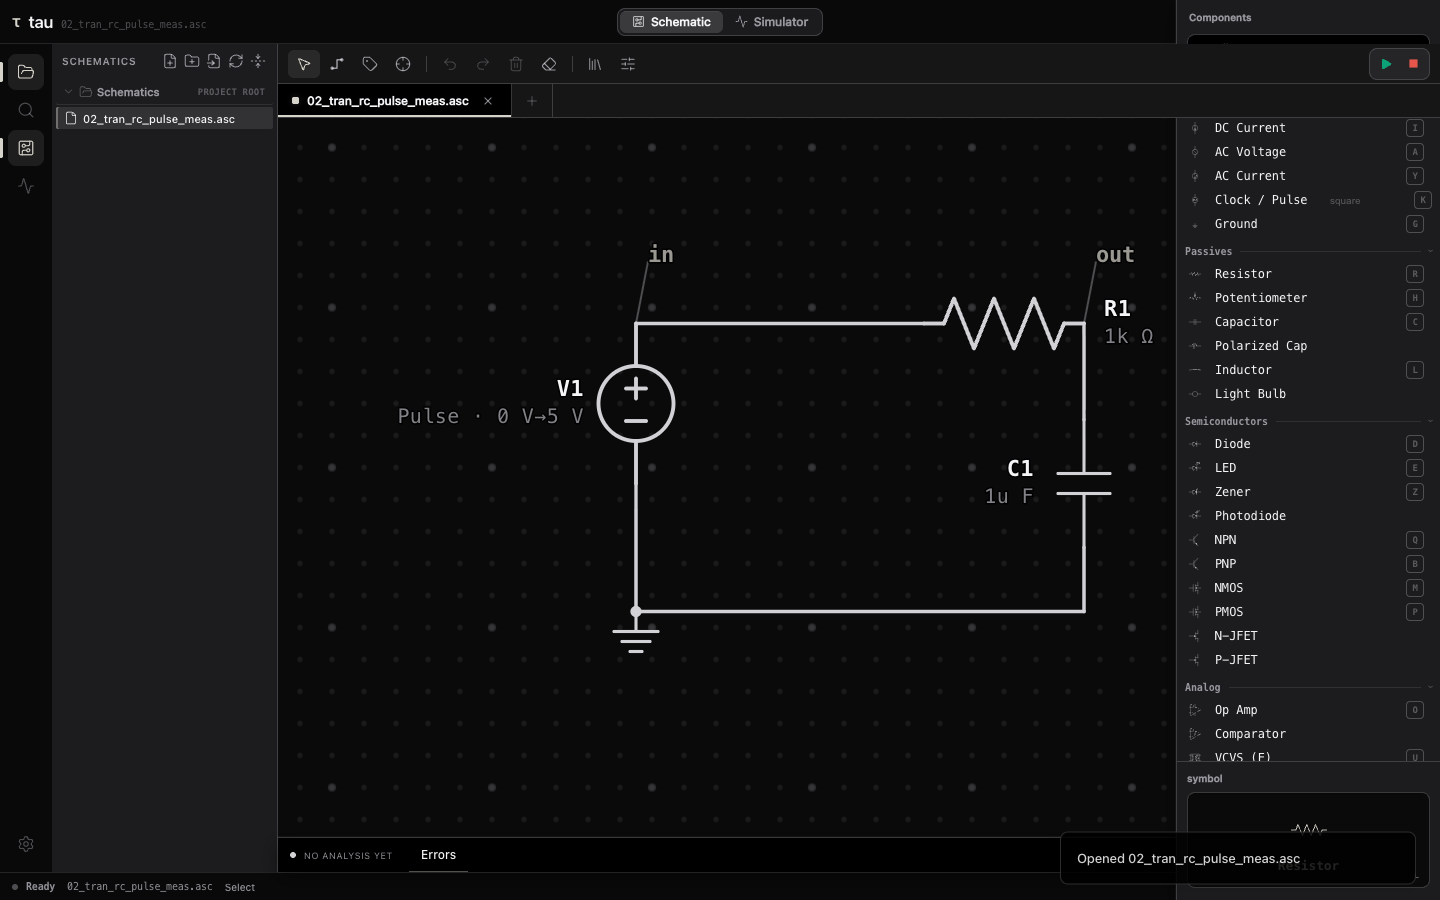
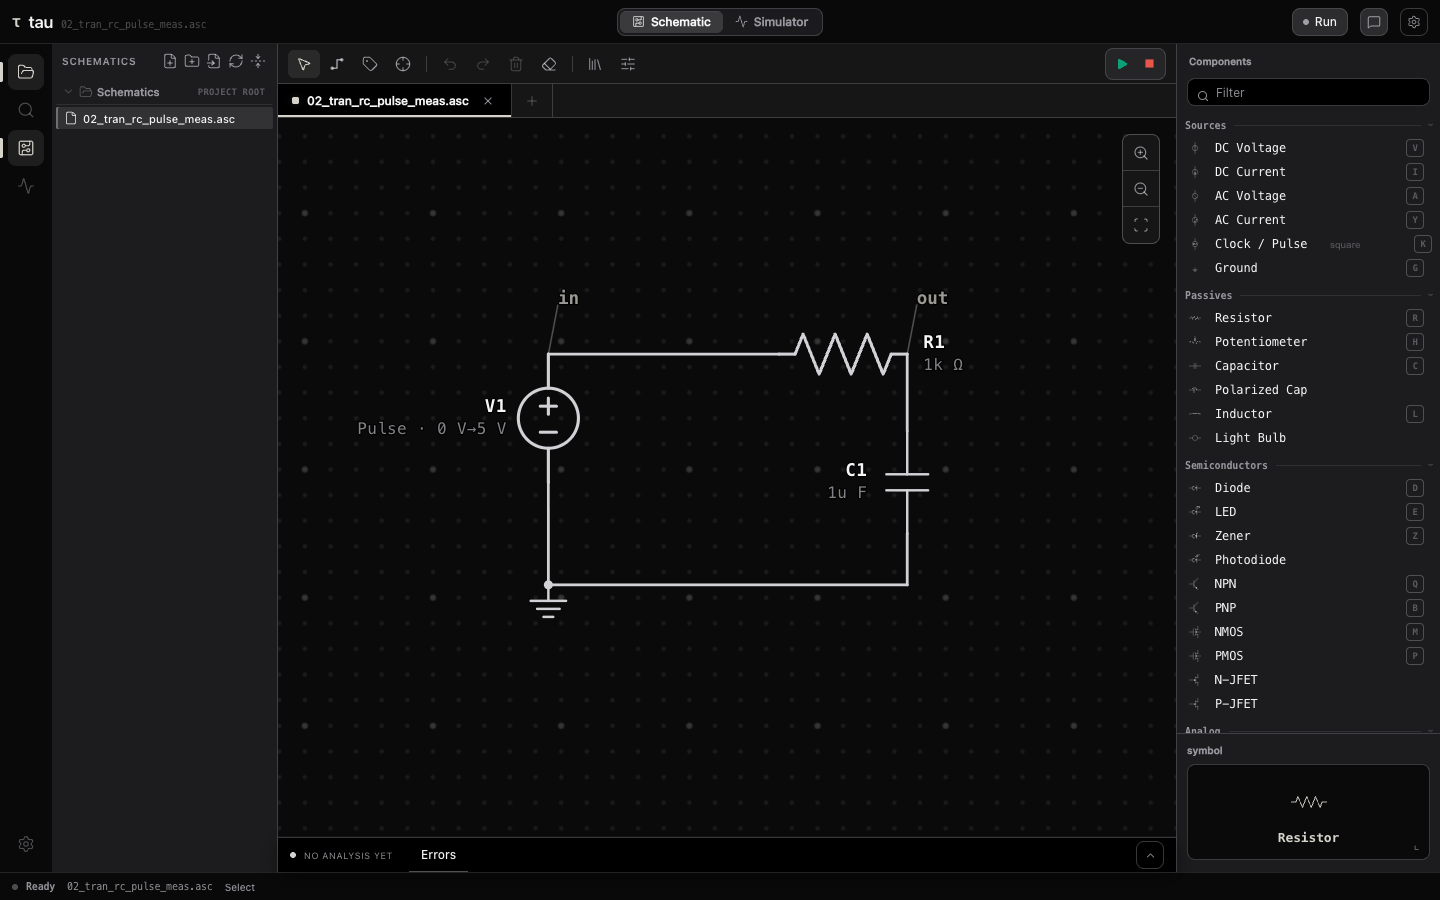
Stop the toast covering the instrument, and say where stage 5 stopped
Two things, both about the bottom-right corner of the window.

**The notices.** Every screenshot in this redesign has had "Opened
02_tran_rc_pulse_meas.asc" sitting over the trace legend, and it is worth
naming why that is two faults rather than one.

It should not have been said at all: opening a file already changes the tab
strip, the title bar and the drawing, so a toast restating it is ink carrying
no information - the antipattern the design language exists to prevent. A
notice with something to add (parts dropped on import, terminals left
stranded) still speaks, because that genuinely is not visible anywhere else.

And it should not have been said there. The bottom-right is where Tau puts the
things you read a number off: the trace legend, the measurement cards, the
drawer's controls. A notice landing on those is covering the subject in order
to talk about it. Toasts move to bottom-centre, clear of the status readout,
over the schematic's empty middle ground.

**Stage 5, and where it stops.** The parts library staying a docked column is
the one place the canvas-first rule is knowingly unfinished, so it is written
down rather than left to look like an oversight.

Floating it is right - opening the library should not take 264px off the
drawing - but it cannot just be absolutely positioned in the shell body. The
editor's toolbar and tab strip live inside a sibling element, so a full-height
overlay lands on top of Run. Raising the toolbar above it did not settle the
[…]

diff --git a/apps/desktop/src/App.css b/apps/desktop/src/App.css
@@ -5494,30 +5494,26 @@ body {
    to 208px, which drops the container query's threshold and the row sheds
    its description column rather than clipping the name (verified via
    design-shot at 900×600). */
-/* Summoned, not docked.
-   The parts library used to be a flex column, so opening it took 264px off
-   the drawing - the canvas-first rule says collapse the apparatus before
-   compressing the canvas, and this was the largest remaining violation of it.
-   It is an overlay now: the schematic keeps its full width and the library
-   sits over the right edge of it.
+/* Still docked, deliberately, and this is the one place the canvas-first rule
+   is knowingly unfinished.
 
-   Shadowed, because it is summoned. The two-tier rule (see .results-drawer)
-   gives --elev-float to anything that came from somewhere and will go back,
-   and withholds it from persistent chrome. `right` is set inline rather than
-   here: it has to clear the assistant when the assistant is open, and only
-   App knows how wide that is right now. */
+   Making the library an overlay is right - opening it should not take 264px
+   off the drawing - but it cannot just be absolutely positioned in the shell
+   body. The editor's toolbar and tab strip live inside a sibling element, so a
+   full-height overlay lands on top of Run; raising the toolbar's z-index above
+   it did not settle the hit-testing either, which says something in that
+   subtree is forming a stacking context. The real fix is to render the overlay
+   inside the editor shell, beneath its chrome, and that is a structural move
+   rather than a stylesheet one. Left docked until it can be done and looked
+   at properly: a half-working overlay sitting on the Run button is worse than
+   a column that merely takes up room. */
 .shell-body > .palette,
 .shell-body > .components-rail {
-  position: absolute;
-  top: 0;
-  bottom: 0;
-  z-index: var(--z-summoned);
   flex: none;
   width: 264px;
   border-left: 0.5px solid var(--border);
   border-right: 0;
   background: var(--panel);
-  box-shadow: var(--elev-float);
   backdrop-filter: none;
 }
 
@@ -5732,17 +5728,6 @@ body {
 
 .components-rail-body > .component-inspector .property-field {
   grid-template-columns: minmax(56px, 88px) minmax(0, 1fr);
-}
-
-/* Above the summoned parts library, which spans the shell body's full height.
-   The library is meant to cover the drawing, not the tools: with the toolbar
-   and the tab strip stacked over it - both opaque and full-width - the overlay
-   reads as starting below them, and Run stays clickable. Cheaper and steadier
-   than giving the overlay a `top` computed from two variable-height rows. */
-.editor-toolbar,
-.editor-tabs {
-  position: relative;
-  z-index: calc(var(--z-summoned) + 1);
 }
 
 .editor-toolbar {
